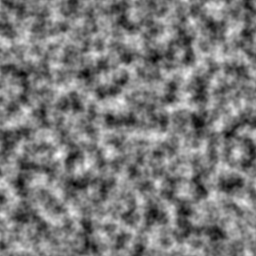
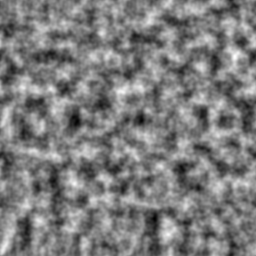
progress

diff --git a/main.cpp b/main.cpp
@@ -108,29 +108,11 @@ inline void hash_combine(std::size_t& seed, const T& v)
 }
 
 template <typename LAMBDA>
-float PerlinNoise(const IVec2& pixelPos, int cellSize, const LAMBDA& UnitVectorAtCell)
+float PerlinNoise(const IVec2& pixelPos, int cellSize, int octave, const LAMBDA& UnitVectorAtCell)
 {
-    auto RandomUnitVectorAtPos = [](const IVec2& pos)
-    {
-        size_t seed = 0x1337beef;
-        hash_combine(seed, pos[0]);
-        hash_combine(seed, pos[1]);
-
-        std::mt19937 rng((unsigned int)seed);
-        std::uniform_real_distribution<float> dist(0.0f, c_twoPi);
-
-        float angle = dist(rng);
-
-        return Vec2
-        {
-            cos(angle),
-            sin(angle)
-        };
-    };
-
     auto DotGridGradient = [&](const IVec2& cell, const IVec2& pos)
     {
-        Vec2 gradient = RandomUnitVectorAtPos(cell);
+        Vec2 gradient = UnitVectorAtCell(cell / cellSize, octave);
         IVec2 delta = pos - cell;
         Vec2 deltaf = Vec2{ (float)delta[0], (float)delta[1] } / float(cellSize);
         return Dot(deltaf, gradient);
@@ -175,7 +157,7 @@ float PerlinNoiseOctaves(const IVec2& pos, int octaves, int cellSize, const LAMB
 
     for (int i = 0; i < octaves; ++i)
     {
-        ret += PerlinNoise(pos * frequency, cellSize, UnitVectorAtCell) * amplitude;
+        ret += PerlinNoise(pos * frequency, cellSize, i, UnitVectorAtCell) * amplitude;
         amplitude *= 0.5;
         frequency *= 2;
     }
@@ -226,6 +208,7 @@ int main(int argc, char** argv)
     static const int c_cellSize = 16;
     static const int c_numCells = c_imageSize / c_cellSize;
 
+    // white noise, with the same vectors for each octave
     {
         std::vector<Vec2> vectors(c_numCells * c_numCells);
         std::mt19937 rng;
@@ -242,13 +225,86 @@ int main(int argc, char** argv)
 
         auto UnitVectorAtCell = [&vectors](const IVec2& pos, int octave)
         {
-            return vectors[pos[1] * c_numCells + pos[0]];
+            int x = pos[0] % c_numCells;
+            int y = pos[1] % c_numCells;
+            return vectors[y * c_numCells + x];
         };
 
         MakePerlinNoise("perlin_white_same_1.png", c_imageSize, c_cellSize, 1, UnitVectorAtCell);
         MakePerlinNoise("perlin_white_same_2.png", c_imageSize, c_cellSize, 2, UnitVectorAtCell);
         MakePerlinNoise("perlin_white_same_3.png", c_imageSize, c_cellSize, 3, UnitVectorAtCell);
     }
+
+    // white noise, with different vectors per octave
+    {
+        std::vector<Vec2> vectors(c_numCells * c_numCells * 3);
+        std::mt19937 rng;
+        std::uniform_real_distribution<float> dist(0.0f, c_twoPi);
+        for (Vec2& v : vectors)
+        {
+            float angle = dist(rng);
+            v = Vec2
+            {
+                cos(angle),
+                sin(angle)
+            };
+        }
+
+        auto UnitVectorAtCell = [&vectors](const IVec2& pos, int octave)
+        {
+            int x = pos[0] % c_numCells;
+            int y = pos[1] % c_numCells;
+
+            int offset = 0;
+            switch (octave)
+            {
+                case 0: offset = c_numCells * c_numCells * 0; break;
+                case 1: offset = c_numCells * c_numCells * 1; break;
+                case 2: offset = c_numCells * c_numCells * 2; break;
+            }
+
+            return vectors[y * c_numCells + x + offset];
+        };
+
+        MakePerlinNoise("perlin_white_different_1.png", c_imageSize, c_cellSize, 1, UnitVectorAtCell);
+        MakePerlinNoise("perlin_white_different_2.png", c_imageSize, c_cellSize, 2, UnitVectorAtCell);
+        MakePerlinNoise("perlin_white_different_3.png", c_imageSize, c_cellSize, 3, UnitVectorAtCell);
+    }
+
+    // blue noise, same vectors per octave
+    {
+        // Load the 16x16 blue noise
+        std::vector<Vec2> vectors(c_numCells * c_numCells);
+        {
+            int w, h, c;
+            uint8_t* pixels = stbi_load("BlueNoise16.png", &w, &h, &c, 4);
+
+            for (size_t index = 0; index < c_numCells * c_numCells; ++index)
+            {
+                float angle = c_twoPi * float(pixels[index * 4 + 0]) / 255.0f;
+                vectors[index] = Vec2
+                {
+                    cos(angle),
+                    sin(angle)
+                };
+            }
+
+            stbi_image_free(pixels);
+        }
+
+        auto UnitVectorAtCell = [&vectors](const IVec2& pos, int octave)
+        {
+            int x = pos[0] % c_numCells;
+            int y = pos[1] % c_numCells;
+            return vectors[y * c_numCells + x];
+        };
+
+        MakePerlinNoise("perlin_blue_same_1.png", c_imageSize, c_cellSize, 1, UnitVectorAtCell);
+        MakePerlinNoise("perlin_blue_same_2.png", c_imageSize, c_cellSize, 2, UnitVectorAtCell);
+        MakePerlinNoise("perlin_blue_same_3.png", c_imageSize, c_cellSize, 3, UnitVectorAtCell);
+    }
+
+    // TODO: blue with different vectors per ocatve. offset read by R2 sequence per octave index.
 }
 
 /*
